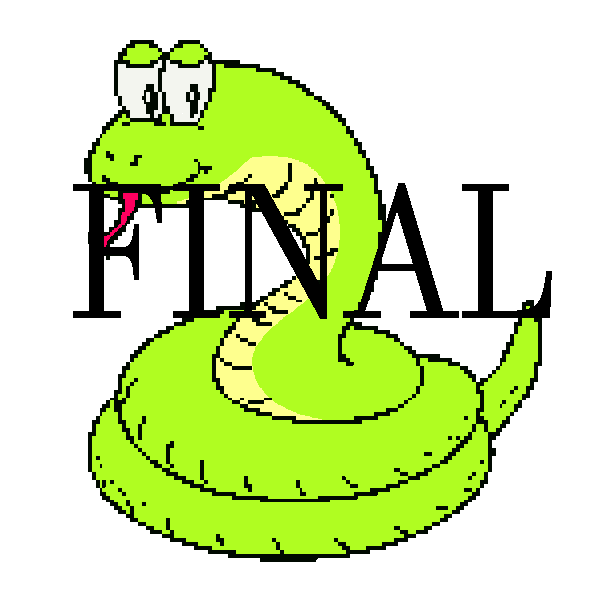
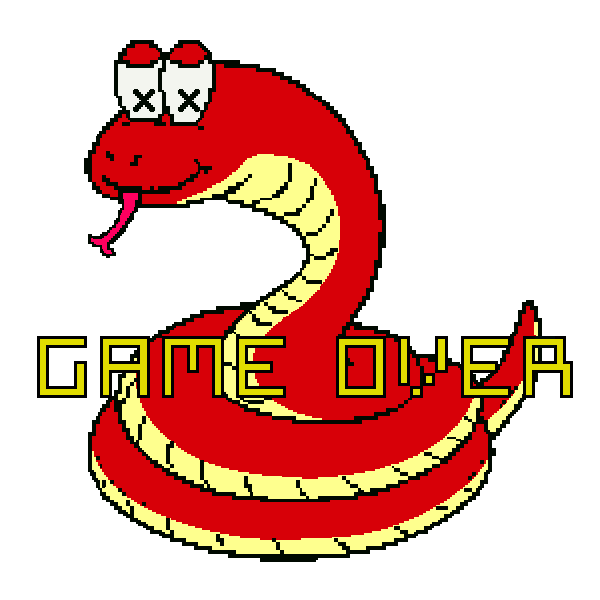
Fondo implantado y ajuste del tamaño de la pantalla

diff --git a/core/src/es/jesusmarin/snake/ControladorJuego.java b/core/src/es/jesusmarin/snake/ControladorJuego.java
@@ -23,6 +23,9 @@ public class ControladorJuego {
     //CONSTANTES
     protected final static String IMAGEN_INICIO = "imgInicio.png";
     protected final static String IMAGEN_FIN = "imgFin.png";
+    protected final static String IMAGEN_FONDO = "imgFondo.png";
+    protected Texture imgFondo;
+
     protected final int TIEMPO_CRECER = 239;
     protected final int TIEMPO_MOVER = 59;
 
@@ -79,7 +82,7 @@ private ControladorJuego(int anchoReal){ //FALTA PONER ANCHOPANTALLA POR PARAMET
 
 }
 
-public static ControladorJuego getInstance(int posXinicial,int posYinicial,int ancho,int altoAnchoPantalla, int anchoReal,int altoReal){
+public static ControladorJuego getInstance(int posXinicial,int posYinicial,int ancho ,int altoAnchoPantalla, int anchoReal,int altoReal){
     if (ControladorJuego.miControlador==null){
         miControlador = new ControladorJuego(altoAnchoPantalla);
         miControlador.setSnake(new Serpiente(posXinicial,posYinicial,ancho,altoAnchoPantalla,anchoReal,altoReal));
@@ -89,13 +92,17 @@ public static ControladorJuego getInstance(int posXinicial,int posYinicial,int a
 private void pantallaInicio(){
     batch.begin();
     //AQUI HABRIA QUE PINTAR EL FONDO
+
     batch.draw(imgInicial,0,0,Gdx.graphics.getWidth(),Gdx.graphics.getHeight());
+
     batch.end();
+
 
     boolean recienTocado;
     recienTocado = Gdx.input.justTouched();
 
     if (recienTocado){
+
         this.iniciaPartida();
     }
 }
@@ -132,7 +139,7 @@ private void controlaEstadoJugando(){
         controlTiempo=1;
     }else{
         controlTiempo++;
-    }
+}
 
     //Me habre chocado?
     if (snake.hasMuerto()){
@@ -145,6 +152,7 @@ private void controlaEstadoJugando(){
 
 }
 private void iniciaPartida(){
+
     Serpiente nuevaSer = new Serpiente(snake);
     controladorVG = VideoJuego.JUGANDO;
     snake.dispose();
@@ -154,6 +162,7 @@ private void finalPartida(){
 
     batch.begin();
     //AQUI ES PROBABLE QUE HAYA QUE PINTAR EL FONDO
+
     batch.draw(imgFinal,0,0,Gdx.graphics.getWidth(),Gdx.graphics.getHeight());
     batch.end();
 
@@ -164,7 +173,12 @@ private void finalPartida(){
         this.iniciaPartida();
     }
 }
+
 public void render(){
+    imgFondo = new Texture(IMAGEN_FONDO);
+    batch.begin();
+    batch.draw(imgFondo,0,0,Gdx.graphics.getHeight(),Gdx.graphics.getWidth());
+    batch.end();
     switch (controladorVG){
         case INICIO: this.pantallaInicio();
         break;
@@ -174,10 +188,10 @@ public void render(){
         break;
     }
 }
+
 public void setSnake(Serpiente nuevaSerpiente){
     snake=nuevaSerpiente;
 }
-
 
 public void dispose() {
     if (snake != null) snake.dispose();
@@ -186,5 +200,5 @@ public void dispose() {
     imgFinal.dispose();
 
 
-}
+    }
 }

diff --git a/core/src/es/jesusmarin/snake/GdxGameSnake.java b/core/src/es/jesusmarin/snake/GdxGameSnake.java
@@ -12,13 +12,17 @@ public class GdxGameSnake extends ApplicationAdapter {
 
 	private ControladorJuego miControlador;
 
+
+
 	private static final float PORCENTAJE_PANTALLA_USADA = 0.9f;
 	
 	@Override
 	public void create () {
+
 		batch = new SpriteBatch();
 
-		//Aqui tengo que averiguar que ancho de pantalla tengo, que alto, que forma tendran las casillas donde poner las piezas de la serpiente,etc..
+
+		//Aqui tengo que averiguar que ancho de pantalla tengo, que alto, que forma tendran las casillas donde poner las piezas de la serpiente,etc..r
 
 		int anchoPantalla,altoPantalla,elMasChico;
 
@@ -30,19 +34,29 @@ public class GdxGameSnake extends ApplicationAdapter {
 		//Ahora se que elMasChico esta en la resolucion que usare para calcular el 90%
 
 		elMasChico = (int) ((float)elMasChico*PORCENTAJE_PANTALLA_USADA);
+		Gdx.graphics.setWindowedMode(elMasChico, elMasChico);
 
 		miControlador = ControladorJuego.getInstance(anchoPantalla/2,altoPantalla/2,elMasChico/20,elMasChico,anchoPantalla,altoPantalla);
+
 		//img = new Texture("badlogic.jpg");
 	}
 
+
+
 	@Override
 	public void render () {
-		Gdx.gl.glClearColor(0, 1, 0, 1);
+
+
+
+
+		Gdx.gl.glClearColor(46/255f, 146/255f, 59/255f, 1);
 		Gdx.gl.glClear(GL20.GL_COLOR_BUFFER_BIT);
 		//batch.begin();
 		//batch.draw(img, 0, 0);
 		//batch.end();
+
 		miControlador.render();
+
 	}
 	
 	@Override

diff --git a/doc/README.md b/doc/README.md
@@ -35,7 +35,7 @@ Javier S. Me he encargado de desarrollar el diagrama UML(Pieza y Fondo con sus E
 ### 9. 2021-01-19. <br>
 David R y Dani D: Modificaciones en el método colisiona de la clase Pieza.
 ### 10. 2021-01-25. <br>
- Miguel L., Dani M., Javier S. : Completar la clase fondo y actualizar UML con los nuevos métodos añadidos.
+Miguel L., Dani M., Javier S. : Completar la clase fondo y actualizar UML con los nuevos métodos añadidos.
 ### 11. 2021-01-25. <br>
 Miguel L., Dani M., Javier S. : Creamos la clase serpiente en el diagrama y planteamos su estado y algunos comportamientos.
 ### 12. 2021-01-26. <br>
@@ -54,3 +54,5 @@ Daniel D. Diseño desde 0 de imagenes PixelArt para la pantalla de Inicio y Fin 
 David R, Alejandro G, Daniel D. Depuración de código, cambios en clases: Serpiente, ControladorJuego, GdxGameSnake, Pieza. Alcanzamos la primera versión jugable. El próximo objetivo es depurar pequeños errores y añadir un fondo
 ### 19. 2021-02-17. <br>
 David R. Mejoras en el diseño del README.
+### 19. 2021-02-18. <br>
+Daniel D. cambios en las clases ControladorJuego, GdxGameSnake. Finalice el apartado artistico.
